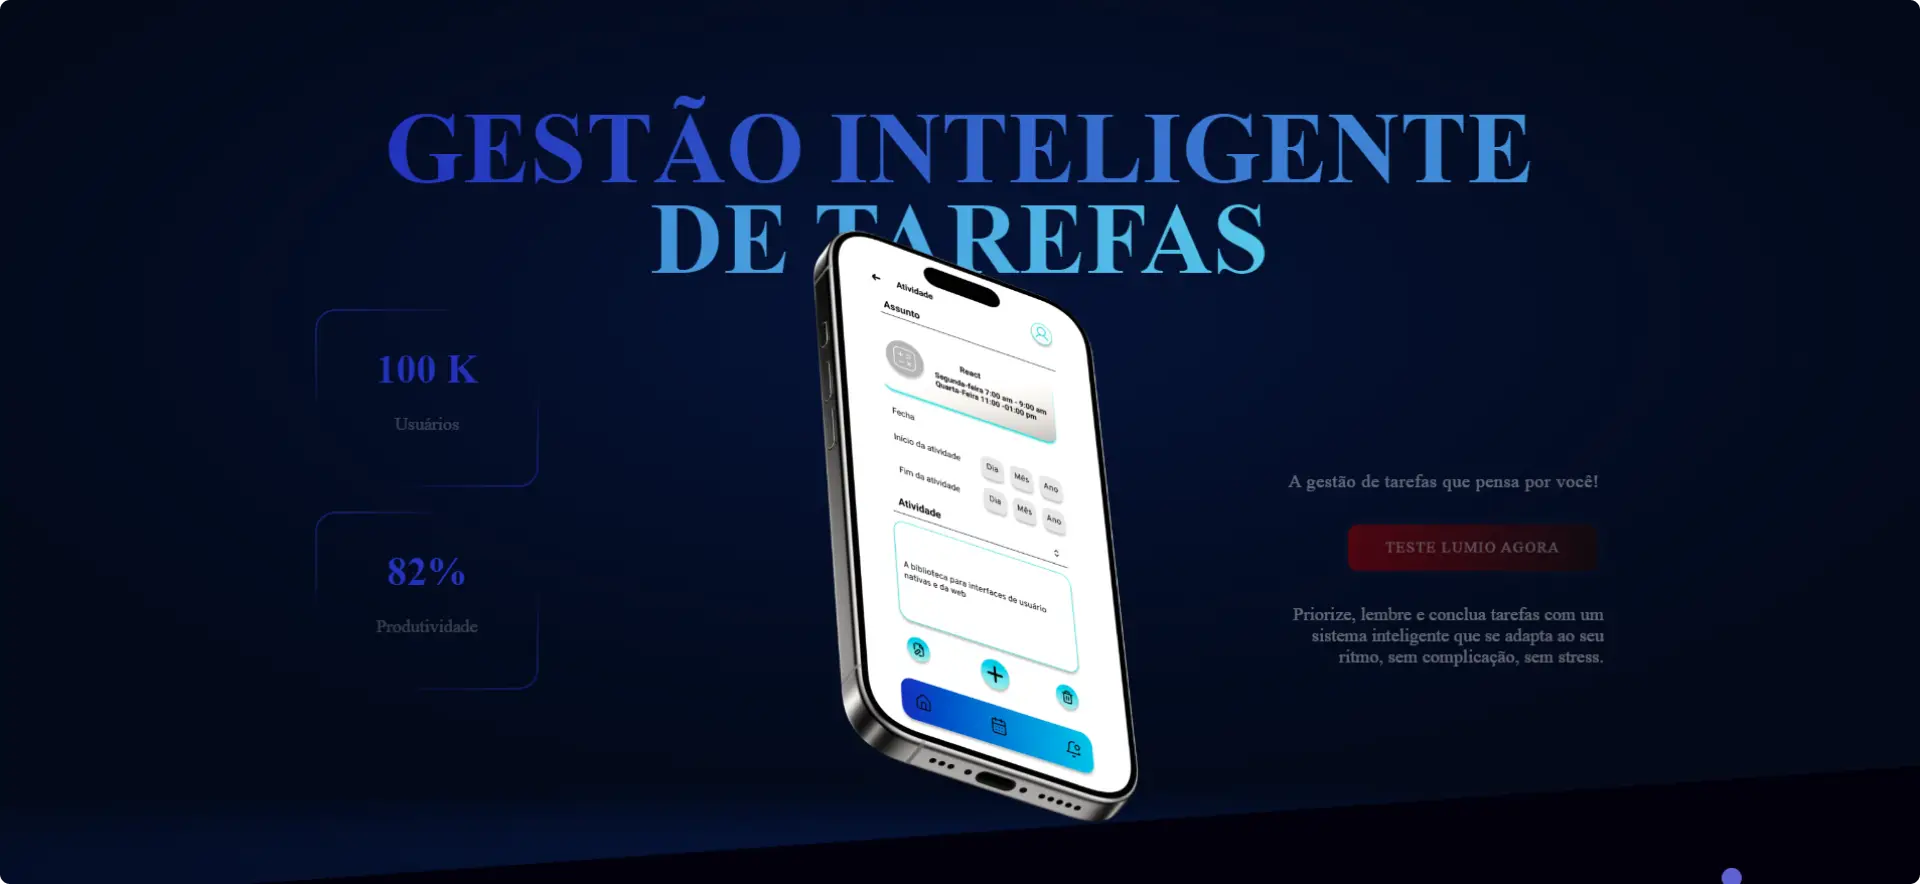
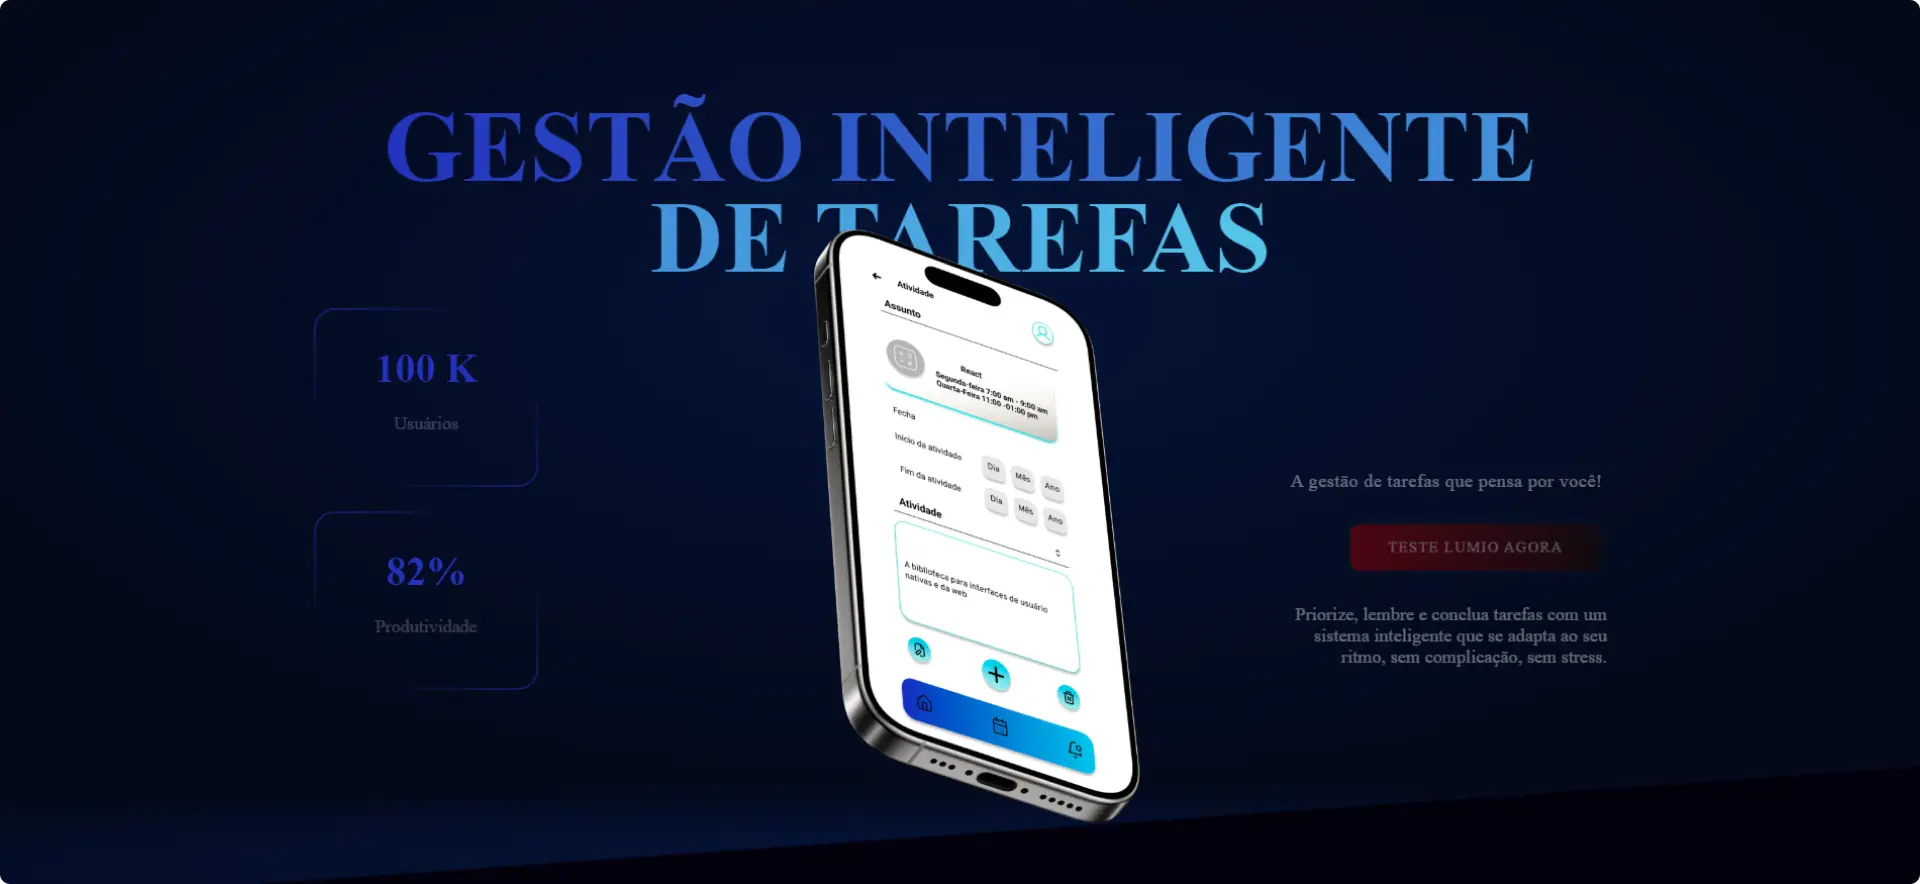
ajustes

diff --git a/script.js b/script.js
@@ -861,18 +861,18 @@ function iniciarMotionPrincipal() {
     .from(".hero .webDesigner", {
       y: 24,
       autoAlpha: 0,
-      duration: 0.55,
+      duration: 0.1,
     })
-    .from(".hero h1", { y: 70, autoAlpha: 0, duration: 0.85 }, "-=0.25")
+    .from(".hero h1", { y: 35, autoAlpha: 0, duration: 0.2 }, "-=0.2")
     .from(
       ".hero .paragrafo",
       {
         filter: "blur(14px)",
-        y: 32,
+        y: 18,
         autoAlpha: 0,
-        duration: 0.7,
+        duration: 0.2,
       },
-      "-=0.4",
+      "-=0.3",
     )
     .from(
       ".hero .botoes",
@@ -882,7 +882,7 @@ function iniciarMotionPrincipal() {
         autoAlpha: 0,
         duration: 0.5,
       },
-      "-=0.3",
+      "-=0.25",
     );
 
   const efeitosTitulo = [

diff --git a/style.css b/style.css
@@ -581,6 +581,13 @@ header.scrolled .icone {
     drop-shadow(0 0 12px rgba(239, 101, 0, 0.3));
 }
 
+.hero h1,
+.hero .paragrafo {
+  opacity: 1;
+  visibility: visible;
+  filter: none;
+}
+
 /* =========================
    Animações de seções
 ========================= */
